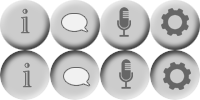
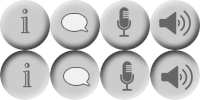
bgm

Changed region(s): [[0.78, 0.6, 0.99, 0.9], [0.78, 0.06, 0.96, 0.36], [0.57, 0.57, 0.69, 0.93]]

diff --git a/gamepalclient/src/components/World.vue b/gamepalclient/src/components/World.vue
@@ -18,7 +18,9 @@
         <button id="enter" @click="sendChat(1, '')">Enter</button>
     </div>
     <div style="display:none">
-	    <audio id="myAudio" type="audio/wav" controls autoplay/>
+	    <audio id="voiceAudio" type="audio/wav" controls autoplay crossOrigin = "anonymous" />
+	    <audio id="musicAudio" :src="require('../assets/test01.mp3')" />
+	    <audio id="soundAudio" controls autoplay crossOrigin = "anonymous" />
         <img id="c0" src="../assets/image/characters/c0.png">
         <img id="avatars" src="../assets/image/avatars.png">
         <img id="floors" src="../assets/image/floors.png">
@@ -55,11 +57,15 @@ const maxMsgLineNum = 5
 const maxMsgLineSize = 400
 const chatSize = 20
 
-import Recorderx, { ENCODE_TYPE } from 'recorderx';
+import Recorder from 'js-audio-recorder' //用于获取麦克风权限
+import Recorderx, { ENCODE_TYPE } from 'recorderx'; //用于录音
 const rc = new Recorderx()
+let isMuted = true
 var voiceMessages = []
+let micIsPermitted = false
 let micInUse = false
 let voiceInUse = false
+const voiceEndDelay = 500
 
 var uuid
 var sceneNo
@@ -76,8 +82,6 @@ const playerMaxSpeedY = 0.05
 const acceleration = 0.01
 // 1-E 2-NE 3-N 4-NW 5-W 6-SW 7-S 8-SE
 var playerDirection
-var isMuted = false
-const voiceEndDelay = 500
 
 var positionMap
 
@@ -398,10 +402,11 @@ export default {
       }
       var timestamp = (new Date()).valueOf()
       var speed = Math.sqrt(Math.pow(speedX, 2) + Math.pow(speedY, 2))
-      var maxSpeed = Math.sqrt(Math.pow(playerMaxSpeedX, 2) + Math.pow(playerMaxSpeedY, 2))
-      if (speed !== 0 && timestamp % (1000 / speed * maxSpeed) < (250 / speed * maxSpeed)) {
+      // if (speed !== 0 && timestamp % (1000 / (1 + speed)) < (250 / (1 + speed))) {
+      if (speed !== 0 && timestamp % 400 < 100) {
         offsetX = 0
-      } else if (speed !== 0 && timestamp % (1000 / speed * maxSpeed) >= (500 / speed * maxSpeed) && timestamp % (1000 / speed * maxSpeed) < (750 / speed * maxSpeed)) {
+      // } else if (speed !== 0 && timestamp % (1000 / (1 + speed)) >= (500 / (1 + speed)) && timestamp % (1000 / (1 + speed)) < (750 / (1 + speed))) {
+      } else if (speed !== 0 && timestamp % 400 >= 200 && timestamp % 400 < 300) {
         offsetX = 2
       } else {
         offsetX = 1
@@ -412,13 +417,20 @@ export default {
       var x = 0
       var y = -avatarSize
       if(this.isDef(messages)) {
-        this.ctx.fillStyle = 'rgba(0,0,0,0.25)'
-        this.ctx.fillRect(screenX, document.documentElement.clientHeight - screenY - messages.length * chatSize + 5, Math.min(document.documentElement.clientWidth, maxMsgLineSize - screenX), chatSize * messages.length)
+        // this.ctx.fillStyle = 'rgba(0,0,0,0.25)'
+        // this.ctx.fillRect(screenX, document.documentElement.clientHeight - screenY - messages.length * chatSize + 5, Math.min(document.documentElement.clientWidth, maxMsgLineSize - screenX), chatSize * messages.length)
         for (let i = 0; i < messages.length; i++) {
+          this.ctx.shadowColor="black" // 阴影颜色
+          this.ctx.shadowBlur=2 // 阴影模糊范围
+          this.ctx.shadowOffsetX=2
+          this.ctx.shadowOffsetY=2
           this.ctx.font = '16px sans-serif'
           this.ctx.fillStyle = '#EEEEEE'
           this.ctx.fillText(messages[messages.length - 1 - i], screenX, document.documentElement.clientHeight - screenY - i * chatSize, Math.min(document.documentElement.clientWidth - screenX, maxMsgLineSize))
-          this.ctx.fillStyle = '#000000'
+          this.ctx.fillStyle = '#000000' // 阴影颜色
+          this.ctx.shadowBlur=0 // 阴影模糊范围
+          this.ctx.shadowOffsetX=0
+          this.ctx.shadowOffsetY=0
         }
       }
     },
@@ -458,6 +470,11 @@ export default {
       } else if (x < avatarSize + 4 * buttonSize && y >= this.ctx.canvas.height - buttonSize) {
         // Settings
         canvasMoveUse = 5
+		isMuted = !isMuted
+		document.getElementById('voiceAudio').muted = isMuted
+		document.getElementById('musicAudio').muted = isMuted
+		document.getElementById('soundAudio').muted = isMuted
+		this.playMusic()
       } else {
         // Playground
         canvasMoveUse = 0
@@ -603,12 +620,21 @@ export default {
       && typeof val.catch === 'function'
     },
     recordStart () {
-	  voiceInUse = false
-	  var audioObj = document.getElementById("myAudio")
+	  if (!micIsPermitted) {
+	    Recorder.getPermission().then(() => {
+		  console.log('获取录音权限成功')
+		  micIsPermitted = true
+		}, (error) => {
+		  this.$Message.info('请先允许该网页使用麦克风')
+	      console.log(`${error.name} : ${error.message}`)
+		})
+	  }
+	  var audioObj = document.getElementById("voiceAudio")
 	  if (!audioObj.ended){
 	    audioObj.pause()
 		audioObj.currentTime = 0
 	  }
+	  voiceInUse = false
 	  rc.clear()
       rc.start()
       .then(() => {
@@ -671,7 +697,7 @@ export default {
     },
 	async playBlob(blob) {
       // update file path for Audio tag...
-	  var audioObj = document.getElementById("myAudio")
+	  var audioObj = document.getElementById("voiceAudio")
       var url = (window.URL || window.webkitURL).createObjectURL( blob )
 	  audioObj.src = url
 	  audioObj.load()
@@ -723,6 +749,12 @@ export default {
 		voiceInUse = false
 	  }
     },
+	playMusic () {
+	  var audioObj = document.getElementById("musicAudio")
+	  audioObj.loop = true
+	  audioObj.load()
+	  audioObj.play()
+	},
     shutdown () {
       clearInterval(intervalTimer20)
       clearInterval(intervalTimer250)
